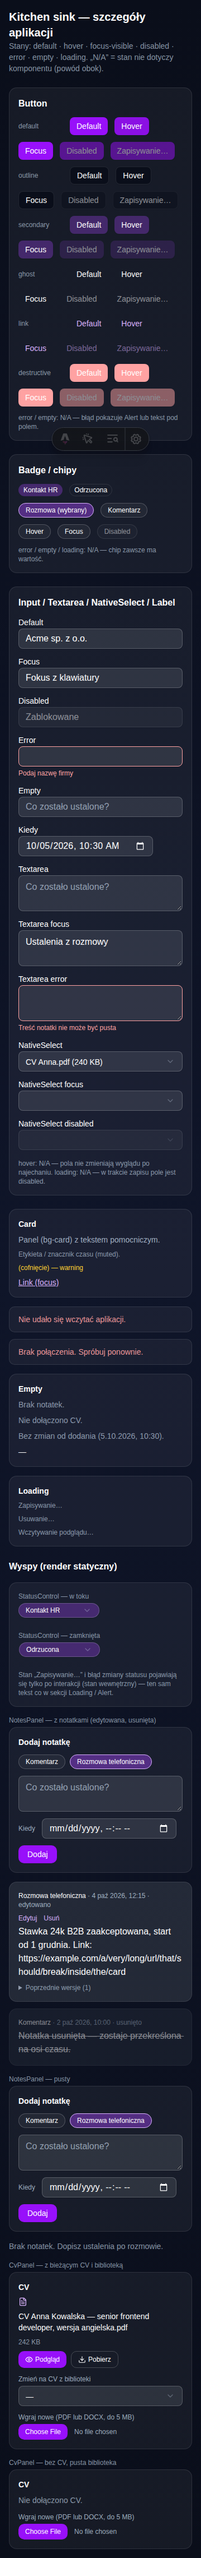
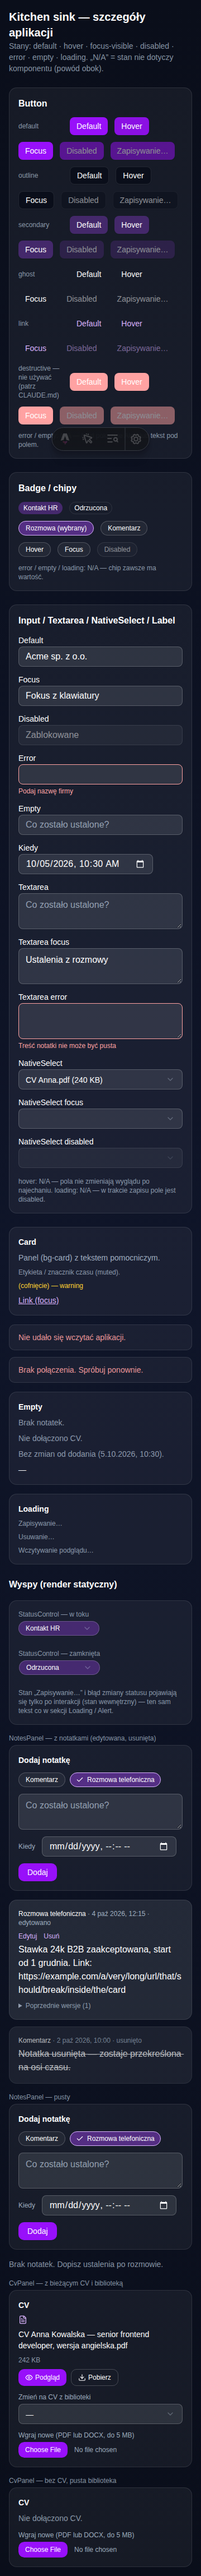
fix(fast-details-on-phone): apply implementation review fixes
- full-strength focus ring in shared ui components (F1)
- one Radix source: button uses radix-ui Slot; @radix-ui/react-slot removed (F2)
- check icon on the selected note-kind chip (F3); role="alert" on async
  errors, aria-invalid/aria-describedby on note fields (F4); removed-note
  metadata at opacity-70 (F5)
- badge link variant text-link, native options bg-popover (F6); kitchen
  sink labels the destructive variant (F7); tokens.md notes inert dark: (F8)
- reviews/impl-review.md, refreshed kitchen-sink screenshots

diff --git a/src/components/applications/NotesPanel.tsx b/src/components/applications/NotesPanel.tsx
@@ -1,4 +1,5 @@
-import React, { useState, useSyncExternalStore } from "react";
+import React, { useId, useState, useSyncExternalStore } from "react";
+import { Check } from "lucide-react";
 import { Alert, AlertDescription } from "@/components/ui/alert";
 import { Button } from "@/components/ui/button";
 import { Card } from "@/components/ui/card";
@@ -64,6 +65,10 @@ function NoteForm({ initial, submitLabel, onSubmit, onCancel }: NoteFormProps) {
   const notedAt = edited ?? (inBrowser ? toLocalInputValue(initial.noted_at ?? openedAt) : "");
   const [errors, setErrors] = useState<Errors>({});
   const [pending, setPending] = useState(false);
+  // Error ids built with useId: submitLabel contains spaces, which would break aria-describedby.
+  const errorId = useId();
+  const bodyErrorId = `${errorId}-body`;
+  const notedErrorId = `${errorId}-noted`;
 
   async function submit() {
     setPending(true);
@@ -95,9 +100,10 @@ function NoteForm({ initial, submitLabel, onSubmit, onCancel }: NoteFormProps) {
             }}
             className={cn(
               "text-foreground hover:text-foreground h-auto rounded-full px-3 py-1 text-xs font-normal shadow-none",
-              kind === k ? "border-link bg-accent hover:bg-accent" : "border-input bg-card hover:bg-muted",
+              kind === k ? "border-link bg-accent hover:bg-accent font-medium" : "border-input bg-card hover:bg-muted",
             )}
           >
+            {kind === k && <Check className="size-3.5" aria-hidden="true" />}
             {NOTE_KIND_LABELS[k]}
           </Button>
         ))}
@@ -115,8 +121,14 @@ function NoteForm({ initial, submitLabel, onSubmit, onCancel }: NoteFormProps) {
             setBody(e.target.value);
           }}
           className="bg-muted"
+          aria-invalid={errors.body ? true : undefined}
+          aria-describedby={errors.body ? bodyErrorId : undefined}
         />
-        {errors.body && <p className="text-destructive mt-1 text-xs">{errors.body}</p>}
+        {errors.body && (
+          <p id={bodyErrorId} role="alert" className="text-destructive mt-1 text-xs">
+            {errors.body}
+          </p>
+        )}
       </div>
       <div className="flex flex-wrap items-center gap-3">
         <Label className="text-supporting-foreground text-xs font-normal" htmlFor={`noted-${submitLabel}`}>
@@ -130,8 +142,14 @@ function NoteForm({ initial, submitLabel, onSubmit, onCancel }: NoteFormProps) {
             setNotedAt(e.target.value);
           }}
           className="bg-muted w-auto"
+          aria-invalid={errors.noted_at ? true : undefined}
+          aria-describedby={errors.noted_at ? notedErrorId : undefined}
         />
-        {errors.noted_at && <p className="text-destructive text-xs">{errors.noted_at}</p>}
+        {errors.noted_at && (
+          <p id={notedErrorId} role="alert" className="text-destructive text-xs">
+            {errors.noted_at}
+          </p>
+        )}
       </div>
       {errors.form && (
         <Alert variant="destructive">
@@ -190,7 +208,7 @@ function NoteItem({ note }: { note: Note }) {
 
   return (
     <li
-      className={cn("bg-muted rounded-xl border p-4", removed && "opacity-50")}
+      className={cn("bg-muted rounded-xl border p-4", removed && "opacity-70")}
       data-note-id={note.id}
       data-removed={removed ? "true" : undefined}
     >
@@ -227,7 +245,11 @@ function NoteItem({ note }: { note: Note }) {
         )}
       </div>
       <p className={cn("break-words whitespace-pre-wrap", removed && "line-through")}>{note.body}</p>
-      {error && <p className="text-destructive mt-1 text-xs">{error}</p>}
+      {error && (
+        <p role="alert" className="text-destructive mt-1 text-xs">
+          {error}
+        </p>
+      )}
       {note.revisions.length > 0 && (
         <details className="text-muted-foreground mt-2 text-xs">
           <summary className="focus-visible:ring-ring cursor-pointer rounded-sm outline-none focus-visible:ring-2">

diff --git a/src/components/ui/native-select.tsx b/src/components/ui/native-select.tsx
@@ -18,7 +18,7 @@ function NativeSelect({
         data-size={size}
         className={cn(
           "border-input selection:bg-primary selection:text-primary-foreground placeholder:text-muted-foreground dark:bg-input/30 dark:hover:bg-input/50 h-9 w-full min-w-0 appearance-none rounded-md border bg-transparent px-3 py-2 pr-9 text-sm shadow-xs transition-[color,box-shadow] outline-none disabled:pointer-events-none disabled:cursor-not-allowed data-[size=sm]:h-8 data-[size=sm]:py-1",
-          "focus-visible:border-ring focus-visible:ring-ring/50 focus-visible:ring-[3px]",
+          "focus-visible:border-ring focus-visible:ring-ring focus-visible:ring-[3px]",
           "aria-invalid:border-destructive aria-invalid:ring-destructive/20 dark:aria-invalid:ring-destructive/40",
           className,
         )}
@@ -35,7 +35,11 @@ function NativeSelect({
 
 function NativeSelectOption({ className, ...props }: React.ComponentProps<"option">) {
   return (
-    <option data-slot="native-select-option" className={cn("bg-[Canvas] text-[CanvasText]", className)} {...props} />
+    <option
+      data-slot="native-select-option"
+      className={cn("bg-popover text-popover-foreground", className)}
+      {...props}
+    />
   );
 }
 
@@ -43,7 +47,7 @@ function NativeSelectOptGroup({ className, ...props }: React.ComponentProps<"opt
   return (
     <optgroup
       data-slot="native-select-optgroup"
-      className={cn("bg-[Canvas] text-[CanvasText]", className)}
+      className={cn("bg-popover text-popover-foreground", className)}
       {...props}
     />
   );

diff --git a/src/components/ui/badge.tsx b/src/components/ui/badge.tsx
@@ -4,7 +4,7 @@ import { cn } from "@/lib/utils";
 import { Slot } from "radix-ui";
 
 const badgeVariants = cva(
-  "inline-flex w-fit shrink-0 items-center justify-center gap-1 overflow-hidden rounded-full border border-transparent px-2 py-0.5 text-xs font-medium whitespace-nowrap transition-[color,box-shadow] focus-visible:border-ring focus-visible:ring-[3px] focus-visible:ring-ring/50 aria-invalid:border-destructive aria-invalid:ring-destructive/20 dark:aria-invalid:ring-destructive/40 [&>svg]:pointer-events-none [&>svg]:size-3",
+  "inline-flex w-fit shrink-0 items-center justify-center gap-1 overflow-hidden rounded-full border border-transparent px-2 py-0.5 text-xs font-medium whitespace-nowrap transition-[color,box-shadow] focus-visible:border-ring focus-visible:ring-[3px] focus-visible:ring-ring aria-invalid:border-destructive aria-invalid:ring-destructive/20 dark:aria-invalid:ring-destructive/40 [&>svg]:pointer-events-none [&>svg]:size-3",
   {
     variants: {
       variant: {
@@ -14,7 +14,7 @@ const badgeVariants = cva(
           "bg-destructive text-white focus-visible:ring-destructive/20 dark:bg-destructive/60 dark:focus-visible:ring-destructive/40 [a&]:hover:bg-destructive/90",
         outline: "border-border text-foreground [a&]:hover:bg-accent [a&]:hover:text-accent-foreground",
         ghost: "[a&]:hover:bg-accent [a&]:hover:text-accent-foreground",
-        link: "text-primary underline-offset-4 [a&]:hover:underline",
+        link: "text-link underline-offset-4 [a&]:hover:underline",
       },
     },
     defaultVariants: {

diff --git a/src/components/ui/button.tsx b/src/components/ui/button.tsx
@@ -1,11 +1,11 @@
 import * as React from "react";
-import { Slot } from "@radix-ui/react-slot";
+import { Slot } from "radix-ui";
 import { cva, type VariantProps } from "class-variance-authority";
 
 import { cn } from "@/lib/utils";
 
 const buttonVariants = cva(
-  "inline-flex items-center justify-center gap-2 whitespace-nowrap rounded-md text-sm font-medium transition-all disabled:pointer-events-none disabled:opacity-50 [&_svg]:pointer-events-none [&_svg:not([class*='size-'])]:size-4 shrink-0 [&_svg]:shrink-0 outline-none focus-visible:border-ring focus-visible:ring-ring/50 focus-visible:ring-[3px] aria-invalid:ring-destructive/20 dark:aria-invalid:ring-destructive/40 aria-invalid:border-destructive",
+  "inline-flex items-center justify-center gap-2 whitespace-nowrap rounded-md text-sm font-medium transition-all disabled:pointer-events-none disabled:opacity-50 [&_svg]:pointer-events-none [&_svg:not([class*='size-'])]:size-4 shrink-0 [&_svg]:shrink-0 outline-none focus-visible:border-ring focus-visible:ring-ring focus-visible:ring-[3px] aria-invalid:ring-destructive/20 dark:aria-invalid:ring-destructive/40 aria-invalid:border-destructive",
   {
     variants: {
       variant: {
@@ -42,7 +42,7 @@ function Button({
   VariantProps<typeof buttonVariants> & {
     asChild?: boolean;
   }) {
-  const Comp = asChild ? Slot : "button";
+  const Comp = asChild ? Slot.Root : "button";
 
   return <Comp data-slot="button" className={cn(buttonVariants({ variant, size, className }))} {...props} />;
 }

diff --git a/src/components/ui/textarea.tsx b/src/components/ui/textarea.tsx
@@ -6,7 +6,7 @@ function Textarea({ className, ...props }: React.ComponentProps<"textarea">) {
     <textarea
       data-slot="textarea"
       className={cn(
-        "border-input placeholder:text-muted-foreground focus-visible:border-ring focus-visible:ring-ring/50 aria-invalid:border-destructive aria-invalid:ring-destructive/20 dark:bg-input/30 dark:aria-invalid:ring-destructive/40 flex field-sizing-content min-h-16 w-full rounded-md border bg-transparent px-3 py-2 text-base shadow-xs transition-[color,box-shadow] outline-none focus-visible:ring-[3px] disabled:cursor-not-allowed disabled:opacity-50 md:text-sm",
+        "border-input placeholder:text-muted-foreground focus-visible:border-ring focus-visible:ring-ring aria-invalid:border-destructive aria-invalid:ring-destructive/20 dark:bg-input/30 dark:aria-invalid:ring-destructive/40 flex field-sizing-content min-h-16 w-full rounded-md border bg-transparent px-3 py-2 text-base shadow-xs transition-[color,box-shadow] outline-none focus-visible:ring-[3px] disabled:cursor-not-allowed disabled:opacity-50 md:text-sm",
         className,
       )}
       {...props}

diff --git a/src/components/ui/input.tsx b/src/components/ui/input.tsx
@@ -8,7 +8,7 @@ function Input({ className, type, ...props }: React.ComponentProps<"input">) {
       data-slot="input"
       className={cn(
         "border-input selection:bg-primary selection:text-primary-foreground file:text-foreground placeholder:text-muted-foreground dark:bg-input/30 h-9 w-full min-w-0 rounded-md border bg-transparent px-3 py-1 text-base shadow-xs transition-[color,box-shadow] outline-none file:inline-flex file:h-7 file:border-0 file:bg-transparent file:text-sm file:font-medium disabled:pointer-events-none disabled:cursor-not-allowed disabled:opacity-50 md:text-sm",
-        "focus-visible:border-ring focus-visible:ring-ring/50 focus-visible:ring-[3px]",
+        "focus-visible:border-ring focus-visible:ring-ring focus-visible:ring-[3px]",
         "aria-invalid:border-destructive aria-invalid:ring-destructive/20 dark:aria-invalid:ring-destructive/40",
         className,
       )}

diff --git a/src/components/applications/CvPanel.tsx b/src/components/applications/CvPanel.tsx
@@ -188,7 +188,11 @@ export default function CvPanel({ applicationId, current, library }: Props) {
       </div>
       {pending && !message && <p className="text-muted-foreground mt-2 text-xs">Zapisywanie…</p>}
       {message && <p className="text-supporting-foreground mt-2 text-xs">{message}</p>}
-      {error && <p className="text-destructive mt-2 text-xs">{error}</p>}
+      {error && (
+        <p role="alert" className="text-destructive mt-2 text-xs">
+          {error}
+        </p>
+      )}
     </section>
   );
 }

diff --git a/src/components/applications/StatusControl.tsx b/src/components/applications/StatusControl.tsx
@@ -77,7 +77,11 @@ export default function StatusControl({ applicationId, status }: Props) {
           Zapisywanie…
         </p>
       )}
-      {error && <p className="text-destructive max-w-48 text-right text-xs">{error}</p>}
+      {error && (
+        <p role="alert" className="text-destructive max-w-48 text-right text-xs">
+          {error}
+        </p>
+      )}
     </div>
   );
 }

diff --git a/context/changes/fast-details-on-phone/tokens.md b/context/changes/fast-details-on-phone/tokens.md
@@ -2,23 +2,25 @@
 
 Values come from the app's literal classes in use on 2026-10-05 (research "Literal groups (view → source)"), so the tokens reproduce today's look; Tailwind palette values are copied from `tailwindcss/theme.css`. One dark theme: `:root` and `.dark` share the block in `src/styles/global.css`.
 
-| Role                                                    | Token (class)                                                  | Value                                                | Literal(s) it replaces                                                     |
-| ------------------------------------------------------- | -------------------------------------------------------------- | ---------------------------------------------------- | -------------------------------------------------------------------------- |
-| Page background                                         | `--background` (`bg-background`, `bg-cosmic` outer stops)      | `#0a0e1a`                                            | `bg-cosmic` hex stops, body white                                          |
-| Page background, middle stop                            | `--background-raised` (only inside `bg-cosmic`, not published) | `#0f1529`                                            | `bg-cosmic` middle hex stop                                                |
-| Body text                                               | `--foreground`, `--card-foreground`, `--popover-foreground`    | `oklch(1 0 0)` (white)                               | `text-white`                                                               |
-| Panel surface                                           | `--card` (`bg-card`)                                           | `oklch(1 0 0 / 5%)`                                  | `bg-white/5`                                                               |
-| Raised surface, input fill, hover                       | `--muted` (`bg-muted`)                                         | `oklch(1 0 0 / 10%)`                                 | `bg-white/10`, `hover:bg-white/10`                                         |
-| Floating surface, native options                        | `--popover` (`bg-popover`)                                     | `#161a25` (opaque: white 5 % over `#0a0e1a`)         | `text-black` on `<option>` (with dark `color-scheme`)                      |
-| Primary action                                          | `--primary` / `--primary-foreground`                           | purple-600 `oklch(55.8% 0.288 302.321)` / white      | `bg-purple-600 text-white` (`hover:bg-purple-500` → `hover:bg-primary/90`) |
-| Status pill                                             | `--secondary` / `--secondary-foreground`                       | purple-500 `oklch(62.7% 0.265 303.9 / 30%)` / white  | `bg-purple-500/30`                                                         |
-| Selected chip, ghost hover                              | `--accent` / `--accent-foreground`                             | purple-500 `oklch(62.7% 0.265 303.9 / 40%)` / white  | `bg-purple-500/40` (`border-purple-300` stays a Phase 3 choice)            |
-| Secondary text (labels, timestamps)                     | `--muted-foreground` (`text-muted-foreground`)                 | blue-100 `oklch(93.2% 0.032 255.585 / 60%)`          | `text-blue-100/50`, `text-blue-100/60`                                     |
-| Supporting text (position, empty states, top-bar email) | `--supporting-foreground` (`text-supporting-foreground`)       | blue-100 `oklch(93.2% 0.032 255.585 / 70%)`          | `text-blue-100/70`, `text-blue-100/80`, `text-white/80`                    |
-| Links                                                   | `--link` (`text-link`)                                         | purple-300 `oklch(82.7% 0.119 306.383)`              | `text-purple-300` (`hover:text-purple-100` → underline)                    |
-| Errors (text on dark)                                   | `--destructive` (`text-destructive`)                           | red-300 `oklch(80.8% 0.114 19.571)`                  | `text-red-300`, `text-red-200` + `bg-red-500/20`                           |
-| Revert hint                                             | `--warning` (`text-warning`)                                   | amber-300 `oklch(87.9% 0.169 91.605)`                | `text-amber-300`                                                           |
-| Borders                                                 | `--border` (`border-border`, base default)                     | `oklch(1 0 0 / 10%)`                                 | `border-white/10`                                                          |
-| Input / control borders                                 | `--input` (`border-input`)                                     | `oklch(1 0 0 / 20%)`                                 | `border-white/20`                                                          |
-| Focus                                                   | `--ring` (`ring-ring`, base `outline-ring/50`)                 | purple-400 `oklch(71.4% 0.203 305.504)`              | `focus:ring-purple-400`                                                    |
-| Sidebar, charts                                         | `--sidebar-*`, `--chart-*`                                     | dark equivalents of the above / stock dark chart set | unused today                                                               |
+The single dark theme lives in `:root` (shared with `.dark`); no element gets the `.dark` class, so `dark:` variants in `src/components/ui/` are inert by design — they are not dark-mode support.
+
+| Role                                                    | Token (class)                                                  | Value                                                | Literal(s) it replaces                                                                      |
+| ------------------------------------------------------- | -------------------------------------------------------------- | ---------------------------------------------------- | ------------------------------------------------------------------------------------------- |
+| Page background                                         | `--background` (`bg-background`, `bg-cosmic` outer stops)      | `#0a0e1a`                                            | `bg-cosmic` hex stops, body white                                                           |
+| Page background, middle stop                            | `--background-raised` (only inside `bg-cosmic`, not published) | `#0f1529`                                            | `bg-cosmic` middle hex stop                                                                 |
+| Body text                                               | `--foreground`, `--card-foreground`, `--popover-foreground`    | `oklch(1 0 0)` (white)                               | `text-white`                                                                                |
+| Panel surface                                           | `--card` (`bg-card`)                                           | `oklch(1 0 0 / 5%)`                                  | `bg-white/5`                                                                                |
+| Raised surface, input fill, hover                       | `--muted` (`bg-muted`)                                         | `oklch(1 0 0 / 10%)`                                 | `bg-white/10`, `hover:bg-white/10`                                                          |
+| Floating surface, native options                        | `--popover` (`bg-popover`)                                     | `#161a25` (opaque: white 5 % over `#0a0e1a`)         | `text-black` on `<option>`; `NativeSelect` options use `bg-popover text-popover-foreground` |
+| Primary action                                          | `--primary` / `--primary-foreground`                           | purple-600 `oklch(55.8% 0.288 302.321)` / white      | `bg-purple-600 text-white` (`hover:bg-purple-500` → `hover:bg-primary/90`)                  |
+| Status pill                                             | `--secondary` / `--secondary-foreground`                       | purple-500 `oklch(62.7% 0.265 303.9 / 30%)` / white  | `bg-purple-500/30`                                                                          |
+| Selected chip, ghost hover                              | `--accent` / `--accent-foreground`                             | purple-500 `oklch(62.7% 0.265 303.9 / 40%)` / white  | `bg-purple-500/40` (`border-purple-300` stays a Phase 3 choice)                             |
+| Secondary text (labels, timestamps)                     | `--muted-foreground` (`text-muted-foreground`)                 | blue-100 `oklch(93.2% 0.032 255.585 / 60%)`          | `text-blue-100/50`, `text-blue-100/60`                                                      |
+| Supporting text (position, empty states, top-bar email) | `--supporting-foreground` (`text-supporting-foreground`)       | blue-100 `oklch(93.2% 0.032 255.585 / 70%)`          | `text-blue-100/70`, `text-blue-100/80`, `text-white/80`                                     |
+| Links                                                   | `--link` (`text-link`)                                         | purple-300 `oklch(82.7% 0.119 306.383)`              | `text-purple-300` (`hover:text-purple-100` → underline); Button and Badge `link` variants   |
+| Errors (text on dark)                                   | `--destructive` (`text-destructive`)                           | red-300 `oklch(80.8% 0.114 19.571)`                  | `text-red-300`, `text-red-200` + `bg-red-500/20`                                            |
+| Revert hint                                             | `--warning` (`text-warning`)                                   | amber-300 `oklch(87.9% 0.169 91.605)`                | `text-amber-300`                                                                            |
+| Borders                                                 | `--border` (`border-border`, base default)                     | `oklch(1 0 0 / 10%)`                                 | `border-white/10`                                                                           |
+| Input / control borders                                 | `--input` (`border-input`)                                     | `oklch(1 0 0 / 20%)`                                 | `border-white/20`                                                                           |
+| Focus                                                   | `--ring` (`ring-ring`, base `outline-ring/50`)                 | purple-400 `oklch(71.4% 0.203 305.504)`              | `focus:ring-purple-400`                                                                     |
+| Sidebar, charts                                         | `--sidebar-*`, `--chart-*`                                     | dark equivalents of the above / stock dark chart set | unused today                                                                                |

diff --git a/context/changes/fast-details-on-phone/reviews/impl-review.md b/context/changes/fast-details-on-phone/reviews/impl-review.md
@@ -1,0 +1,105 @@
+<!-- IMPL-REVIEW-REPORT -->
+
+# Implementation Review: Application Details on a Phone — UI Contract
+
+- **Plan**: context/changes/fast-details-on-phone/plan.md
+- **Scope**: Full plan
+- **Reviewed phases**: 1, 2, 3, 4, 5
+- **Date**: 2026-10-05
+- **Verdict**: APPROVED
+- **Findings**: 0 critical, 2 warnings, 6 observations
+
+## Verdicts
+
+| Dimension           | Verdict |
+| ------------------- | ------- |
+| Plan Adherence      | PASS    |
+| Scope Discipline    | PASS    |
+| Safety & Quality    | WARNING |
+| Architecture        | PASS    |
+| Pattern Consistency | WARNING |
+| Success Criteria    | PASS    |
+
+Automated criteria re-run 2026-10-05: `npm test` 106 PASS, `npm run lint` PASS (incl. UI contract scan, 8 views, 0 hits), `npx astro check` 0 errors, `npm run build` PASS; production: `/dev/ui` → 404, anonymous `/applications/abc` → 302 `/auth/signin?next=…`. All 23 Progress rows ticked; manual rows confirmed by the owner in-session. Security review: no open redirect found (`safeNextPath` on every sign-in exit; `/%2F%2Fevil.com` and `/.//evil.com` stay same-origin), `next` is escaped in the hidden input, `/dev/ui` renders only `NotFound` in production builds.
+
+## Findings
+
+### F1 — Focus ring below 3:1 on shared components
+
+- **Severity**: ⚠ WARNING
+- **Impact**: 🏃 LOW — quick decision; fix is obvious and narrowly scoped
+- **Dimension**: Safety & Quality
+- **Location**: src/components/ui/button.tsx:8 (also input, textarea, native-select, badge)
+- **Detail**: shadcn components use `focus-visible:ring-ring/50` (purple-400 at 50 % over navy ≈ 2.6:1, lower on `bg-muted`), under the 3:1 non-text contrast floor; plain links in `[id]/index.astro` use full `ring-ring`, so focus looks inconsistent. Affects note-kind chips, Edytuj/Usuń, status pill, inputs.
+- **Fix**: Use full-strength `ring-ring` (no `/50`) in the shared ui components so every focus ring matches and clears 3:1.
+- **Decision**: FIXED
+
+### F2 — Two Radix sources after shadcn add
+
+- **Severity**: ⚠ WARNING
+- **Impact**: 🏃 LOW — quick decision; fix is obvious and narrowly scoped
+- **Dimension**: Pattern Consistency
+- **Location**: src/components/ui/badge.tsx:4, label.tsx:3, button.tsx:2, package.json
+- **Detail**: New components import from the umbrella `radix-ui` package while `button.tsx` uses `@radix-ui/react-slot`: two Slot implementations and an undocumented runtime dependency (~60 `@radix-ui/*` packages in the lockfile).
+- **Fix**: Settle on the umbrella `radix-ui` (what the current shadcn registry generates): switch `button.tsx` to it, remove `@radix-ui/react-slot` if nothing else uses it, and note the dependency in change.md.
+- **Decision**: FIXED
+
+### F3 — Selected note-kind chip differs only by colour
+
+- **Severity**: 💡 OBSERVATION
+- **Impact**: 🏃 LOW — quick decision; fix is obvious and narrowly scoped
+- **Dimension**: Safety & Quality
+- **Location**: src/components/applications/NotesPanel.tsx:~96
+- **Detail**: Selected vs unselected chips differ by border/background colour only; `aria-checked` helps screen readers, not colour-blind users.
+- **Fix**: Add a check icon (and medium weight) to the selected chip.
+- **Decision**: FIXED
+
+### F4 — Async errors not announced; field errors not linked
+
+- **Severity**: 💡 OBSERVATION
+- **Impact**: 🏃 LOW — quick decision; fix is obvious and narrowly scoped
+- **Dimension**: Safety & Quality
+- **Location**: StatusControl.tsx, CvPanel.tsx, NotesPanel.tsx (error `<p>` elements, note form fields)
+- **Detail**: Errors that appear after an async action have no `role="alert"`; NotesPanel field errors are not tied to their inputs (`aria-invalid`, `aria-describedby`), so the components' `aria-invalid` error styling never shows.
+- **Fix**: `role="alert"` on async error messages; `aria-invalid` + `aria-describedby` on note fields with errors.
+- **Decision**: FIXED
+
+### F5 — Removed-note metadata contrast
+
+- **Severity**: 💡 OBSERVATION
+- **Impact**: 🏃 LOW — quick decision; fix is obvious and narrowly scoped
+- **Dimension**: Safety & Quality
+- **Location**: src/components/applications/NotesPanel.tsx:~193
+- **Detail**: `opacity-50` over `text-muted-foreground` drops a removed note's timestamp to ≈ 2.5:1; strike-through already marks it as removed.
+- **Fix**: Raise to `opacity-70` (≈ 4:1) and keep the strike-through.
+- **Decision**: FIXED
+
+### F6 — Token use not fully consistent in generated components
+
+- **Severity**: 💡 OBSERVATION
+- **Impact**: 🏃 LOW — quick decision; fix is obvious and narrowly scoped
+- **Dimension**: Pattern Consistency
+- **Location**: src/components/ui/badge.tsx (link variant), src/components/ui/native-select.tsx:38,46, tokens.md
+- **Detail**: Badge `link` variant still uses `text-primary` (too dark on navy; Button's was moved to `text-link`); NativeSelect options use `bg-[Canvas] text-[CanvasText]` (depends on an ancestor `scheme-dark`) while tokens.md says `--popover` covers native options.
+- **Fix**: Badge link → `text-link`; options → `bg-popover text-popover-foreground` (works without `scheme-dark`), keeping tokens.md true.
+- **Decision**: FIXED
+
+### F7 — Kitchen sink showcases the forbidden destructive variant
+
+- **Severity**: 💡 OBSERVATION
+- **Impact**: 🏃 LOW — quick decision; fix is obvious and narrowly scoped
+- **Dimension**: Pattern Consistency
+- **Location**: src/pages/dev/ui.astro (Button section)
+- **Detail**: `/dev/ui` shows `variant="destructive"` without comment, while the new CLAUDE.md rule says not to use it as-is.
+- **Fix**: Label that row "nie używać (patrz CLAUDE.md)".
+- **Decision**: FIXED
+
+### F8 — `dark:` classes in shadcn files are dead code
+
+- **Severity**: 💡 OBSERVATION
+- **Impact**: 🏃 LOW — quick decision; fix is obvious and narrowly scoped
+- **Dimension**: Pattern Consistency
+- **Location**: src/styles/global.css (`:root, .dark`), src/components/ui/*.tsx
+- **Detail**: No element gets `.dark`, so generated `dark:` variants never apply; easy to misread as dark-mode support.
+- **Fix**: One line in tokens.md: single dark theme lives in `:root`; `dark:` variants in ui/ are inert by design.
+- **Decision**: FIXED

diff --git a/context/changes/fast-details-on-phone/change.md b/context/changes/fast-details-on-phone/change.md
@@ -1,7 +1,7 @@
 ---
 change_id: fast-details-on-phone
 title: Application details readable and fast on a phone during a call
-status: implemented
+status: impl_reviewed
 created: 2026-10-05
 updated: 2026-10-05
 archived_at: null
@@ -21,3 +21,5 @@ Adaptation 2026-10-05 (Phase 1): `color-scheme: dark` was not set globally — `
 Phase 2 gate note (2026-10-05): pixel diff before/after — /dashboard, /cv, /auth/signin at 1280 px: 0.0000 %; /auth/signin at 360 px: 0.0000 %; /dashboard and /cv at 360 px: 4.24 %, entirely in x = 360–375 px (pages are 376 px wide because the Topbar overflows — charge C4, fixed in Phase 3), where the canvas changed from white (255,255,255) to the token navy (10,14,26). The visible viewport (0–359 px) is identical. Accepted by the owner as meeting 2.2.
 
 Phase 3 notes (2026-10-05): `StatusControl` is also rendered on `/dashboard`, so its pill there now uses `NativeSelect` (component chevron instead of the "▾" glyph) — a small, consistent change outside the one view, accepted as part of migrating this shared island (like `Topbar`). `ui/button.tsx` `link` variant now uses `text-link`; `ui/native-select.tsx` gained an optional `wrapperClassName`. 360 px check: details page `scrollWidth = 360` with a long company name and a long URL in a note. Pre-existing: `/dashboard` overflows at 360 px with a very long company name (not migrated here — follow-up for the dashboard change).
+
+Impl-review fixes (2026-10-05): Radix comes only from the umbrella `radix-ui` package (what the current shadcn registry generates; `Slot.Root` in `ui/button.tsx` and `ui/badge.tsx`, `Label` in `ui/label.tsx`); `@radix-ui/react-slot` was removed from `package.json` — the `@radix-ui/*` entries in the lockfile are transitive dependencies of `radix-ui`.
